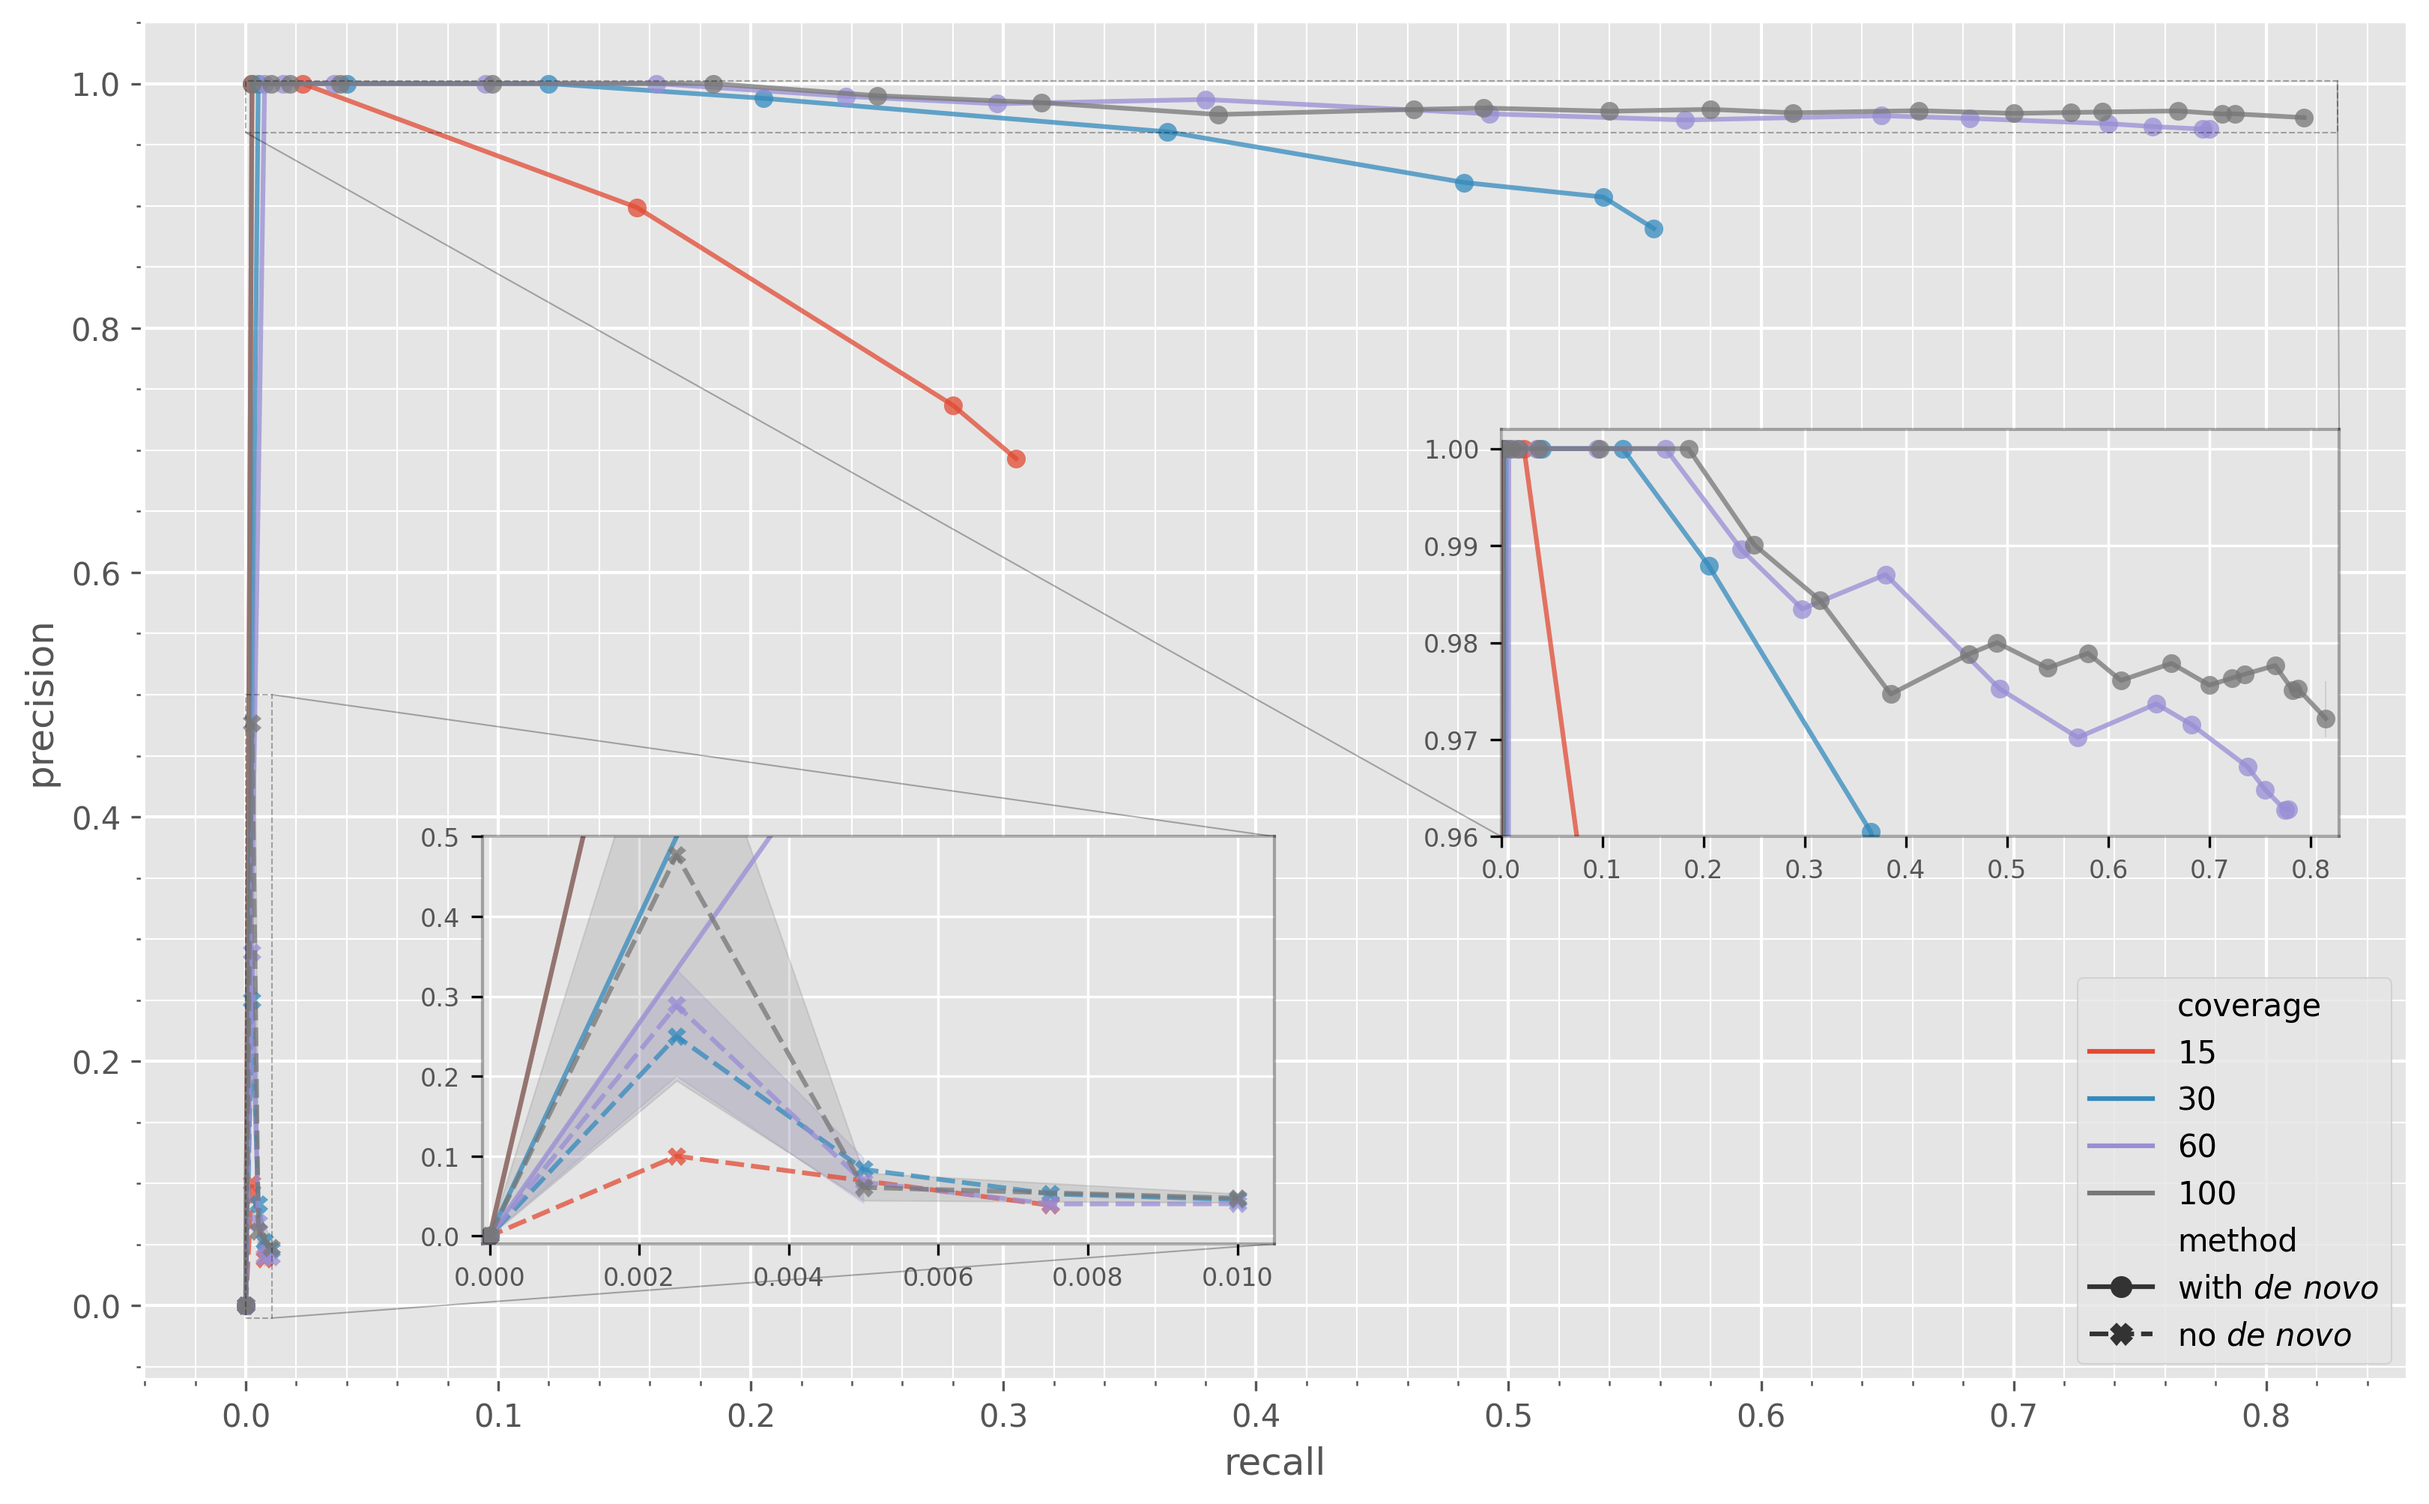
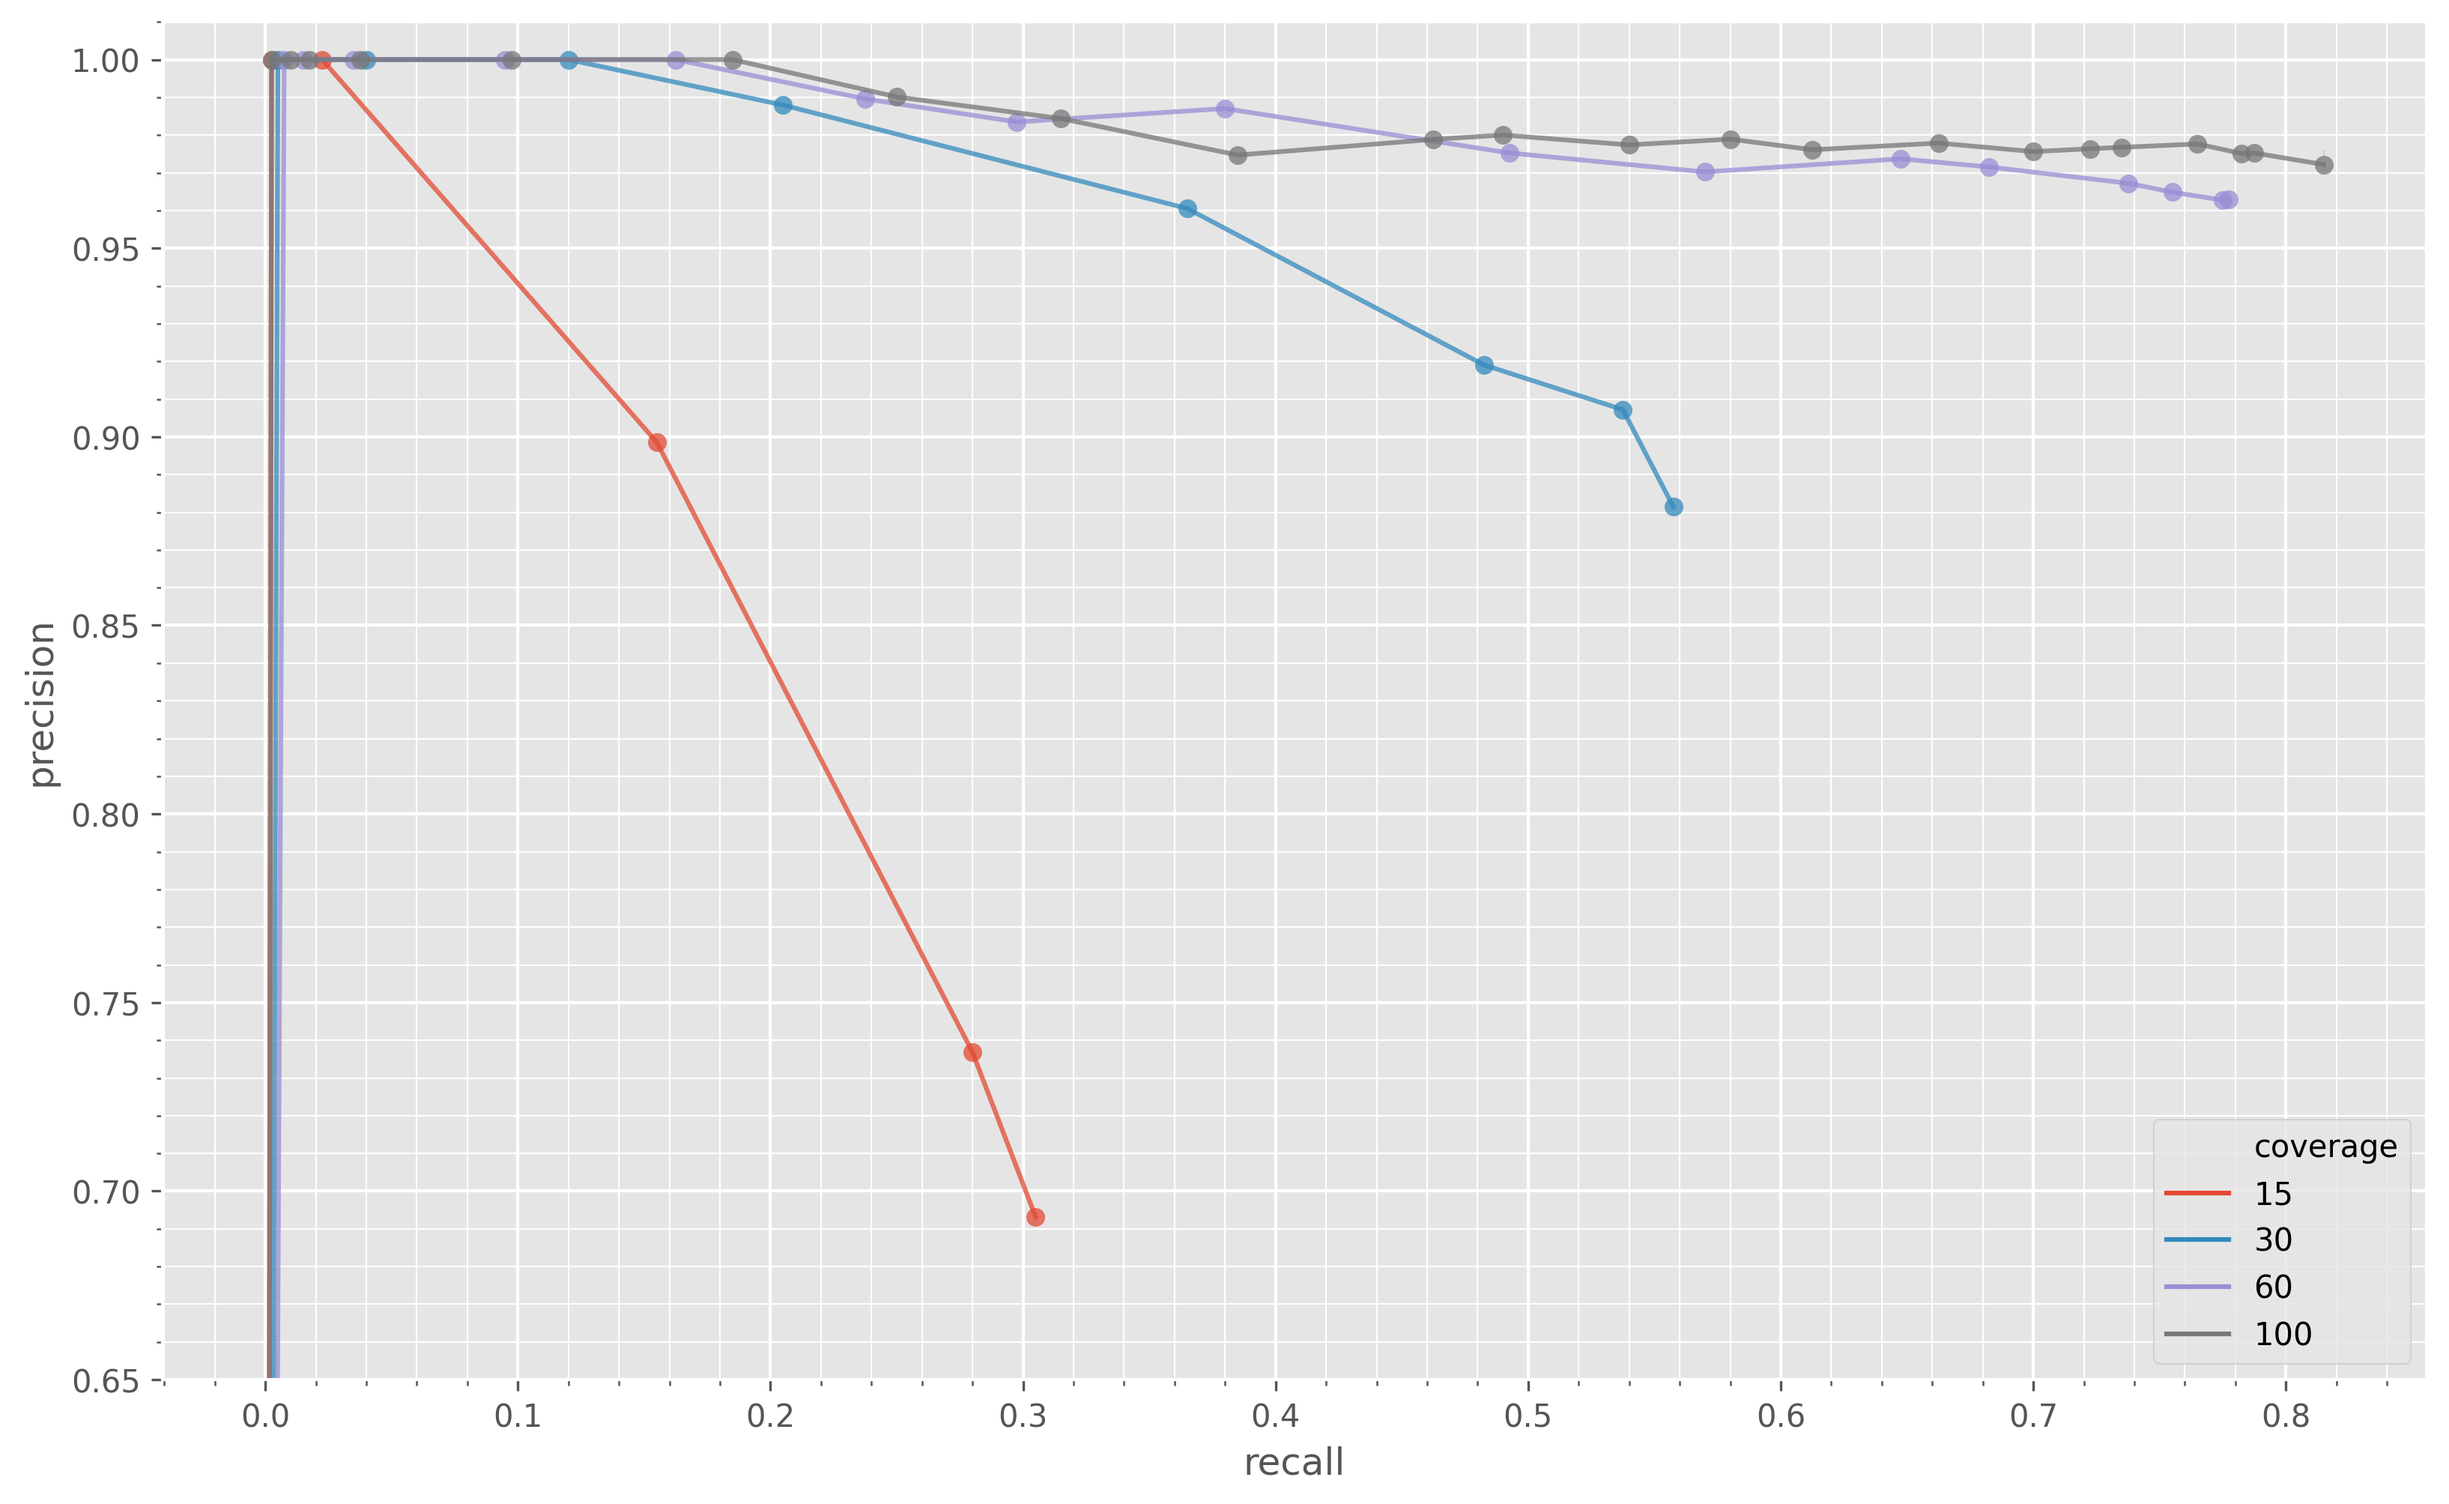
Comments: simulations [#1]

Changed region(s): [[0.0312, 0.0309, 0.9969, 0.9885], [0.81, 0.9268, 0.8411, 0.9576], [0.5919, 0.9268, 0.6231, 0.9576]]

diff --git a/Chapter1/chapter1.tex b/Chapter1/chapter1.tex
@@ -231,14 +231,14 @@ Recall    & 0.674 (5)    & 0.671 (13)                                           
 \label{tab:denovo-summary}
 \end{table}
 
-For the final analysis of the simulation data, we look at how the precision and recall change with an increasing genotype confidence threshold. We select the data point with the optimal maximum nesting level (5) and \denovo{} \kmer{} size (13), along with 4 SNPs per gene, as this is within the range expected for an \ecoli{} genome. In addition, we include the data points for \pandora{} with no \denovo{} discovery. Next, starting at 0 and increasing by 10 until 700, we filter out any variant with a genotype confidence score below the current threshold. The purpose of this analysis is to illustrate what the cost on recall is for requiring more confident variant calls at different read depths and the impact of including \denovo{} variant discovery in \pandora{}. 
+For the final analysis of the simulation data, we look at how the precision and recall change with an increasing genotype confidence threshold. We select the data point with the optimal maximum nesting level (5) and \denovo{} \kmer{} size (13), along with 4 SNPs per gene, as this is within the range expected for an \ecoli{} genome. Next, starting at 0 and increasing by 10 until 700, we filter out any variant with a genotype confidence score below the current threshold. The purpose of this analysis is to illustrate what the cost on recall is for requiring more confident variant calls at different read depths.
 
-\autoref{fig:denovo-sims-roc} shows the same relationship we saw earlier: coverage has a significant impact on precision and recall. Most importantly, though, it shows that the inclusion of \denovo{} discovery is vital for finding novel variants. As shown by the lower-left inset, the best recall achievable for this set of parameters \emph{without} variant discovery is 1.0\%. This is compared to a maximum of 81.5\% when using \denovo{} discovery. Focusing on the 100x coverage data point with \denovo{} discovery, the best recall (81.5\%) leads to a precision of 97.0\%, but the cost of increasing precision to 99\% is decreasing recall to 25\%. 
+\autoref{fig:denovo-sims-roc} shows the same relationship we saw earlier: coverage has a significant impact on precision and recall. Most importantly, though, it shows that the inclusion of \denovo{} discovery is vital for finding novel variants. Precision and recall for \pandora{} \emph{without} variant discovery are not shown in \autoref{fig:denovo-sims-roc}, as the best recall achievable for this set of parameters was only 1.0\% (indicating that 4 SNPs were incidentally in the \panrg{}). This is compared to a maximum of 81.5\% when using \denovo{} discovery. Focusing on the 100x coverage data point with \denovo{} discovery, the best recall (81.5\%) leads to a precision of 97.0\%, but the cost of increasing precision to 99\% is decreasing recall to 25\%. 
 
 \begin{figure}
     \centering
     \includegraphics[width=0.9\textwidth]{Chapter1/Figs/denovo-sims-roc.png}
-    \caption{Precision-recall curve for increasing genotype confidence score thresholds. The curves are coloured by read depth (coverage) and styled by whether or not \denovo{} variant discovery was used. Each marker/point is a different genotype confidence threshold, starting with 0 as the right-most value and increasing as the line moves towards the (top) left. The inset window in the lower-left of the figure shows the performance of \pandora{} without \denovo{} discovery. The inset on the right gives more granularity of precision for the higher-coverage data points.}
+    \caption{Precision-recall curve for increasing genotype confidence score thresholds. The curves are coloured by read depth (coverage). Each marker/point is a different genotype confidence threshold, starting with 0 as the right-most value and increasing as the line moves towards the (top) left.}
     \label{fig:denovo-sims-roc}
 \end{figure}
 
